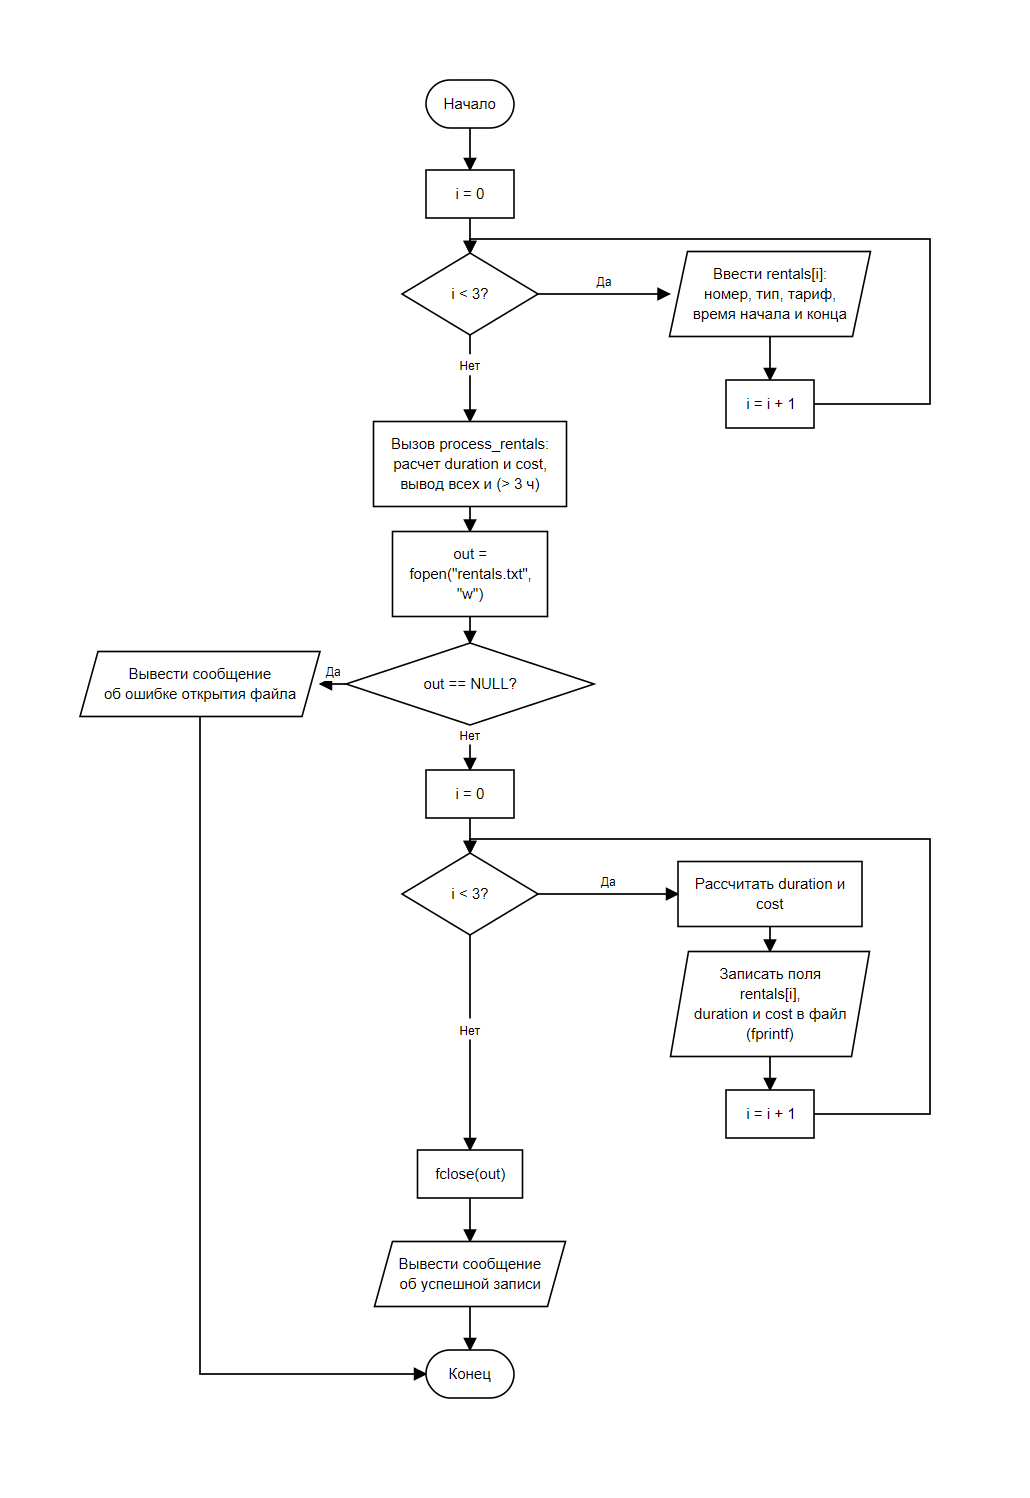
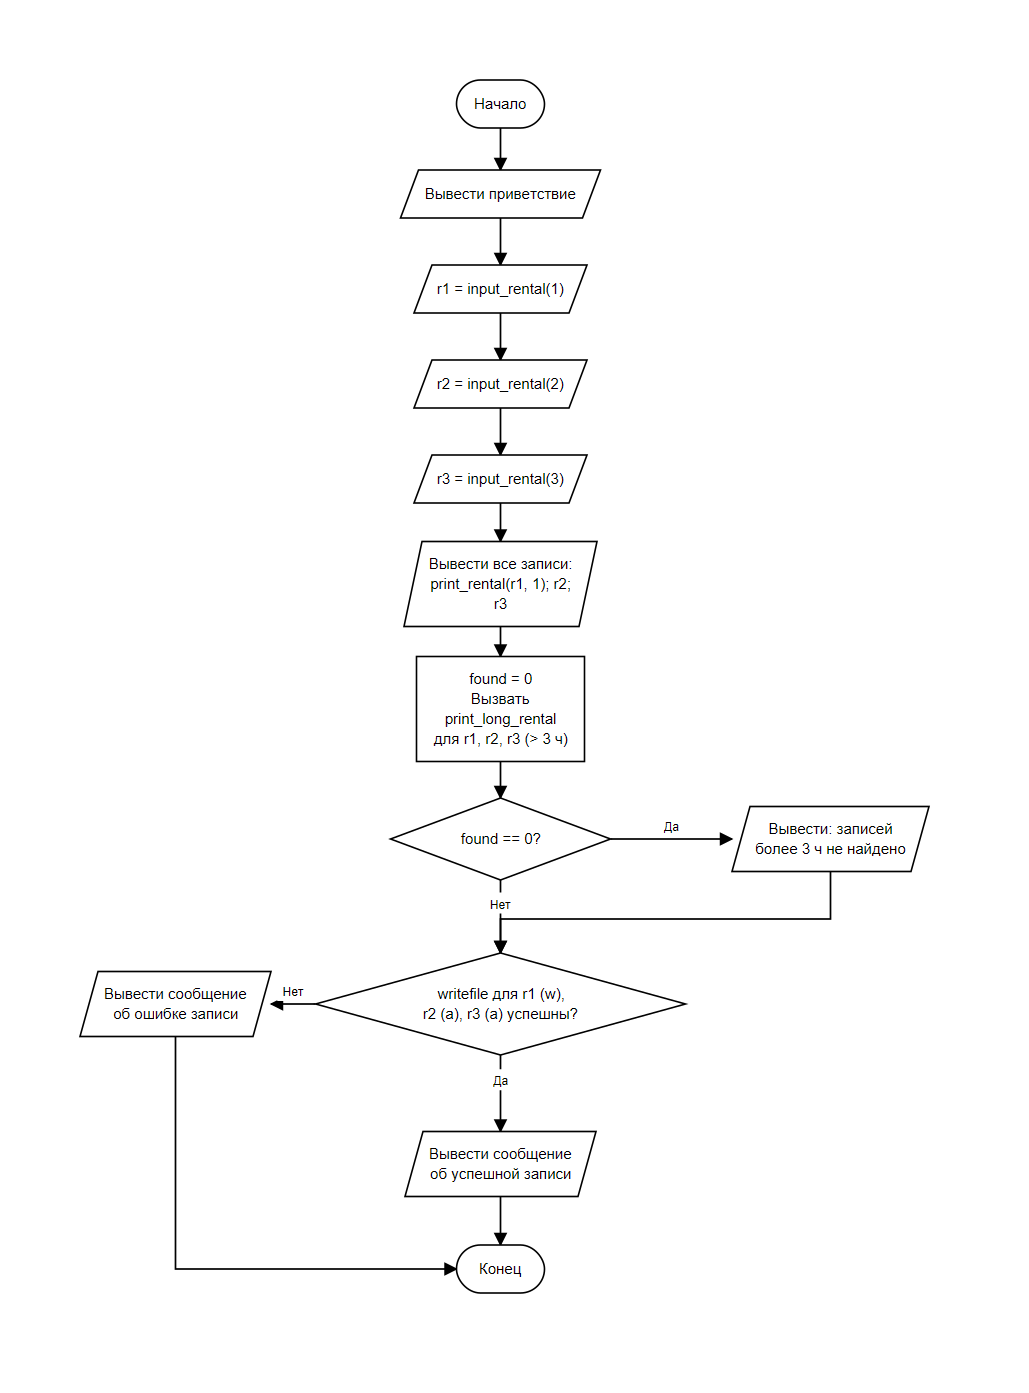
Переделана программа на три отдельные структуры

diff --git a/README.md b/README.md
@@ -12,9 +12,9 @@
 - время окончания аренды.
 
 Требования:
-1. Ввести с клавиатуры данные для трех записей проката.
-2. Вычислить продолжительность и стоимость каждой аренды (с учетом возможного перехода через полночь), вывести все записи, а также записи с длительностью более 3 часов.
-3. Реализовать функцию `writefile`, которая открывает файл `rentals.txt` для записи, проверяет успешность открытия, записывает поля каждой структуры (с разделителями-пробелами после строковых значений и переводом строки в конце каждой записи) и закрывает файл.
+1. Ввести с клавиатуры данные для трех отдельных переменных структурного типа (без использования массива структур).
+2. Вычислить продолжительность и стоимость каждой аренды (с учетом возможного перехода через полночь), вывести все записи, а также записи с длительностью более 3 часов, вызывая функции обработки для каждой из трех структур.
+3. Реализовать функцию `writefile`, которая открывает файл `rentals.txt`, проверяет успешность открытия, записывает поля переданной структуры (с разделителями-пробелами после строковых значений и переводом строки в конце записи) и закрывает файл, и вызвать ее по очереди для всех трех записей.
 
 ---
 
@@ -22,19 +22,14 @@
 
 ### Алгоритм
 
-1. Задать константы: количество записей `COUNT = 3`, порог длительности `LIMIT_HOURS = 3.0`, переводные константы времени и имя выходного файла `FILENAME = "rentals.txt"`.
+1. Задать константы: максимальную длину строки типа `TYPE_LEN = 30`, порог длительности `LIMIT_HOURS = 3.0`, переводные константы времени и имя выходного файла `FILENAME = "rentals.txt"`.
 2. Описать структуру `Time` (часы и минуты) и структуру `BikeRental` со всеми полями записи проката.
 3. Настроить локализацию (`setlocale`) для корректной работы с русским языком в консоли.
-4. В цикле от 0 до 2 считать с клавиатуры данные для 3 записей проката: номер велосипеда, тип (одно слово без пробелов), тариф, время начала и время окончания.
-5. Вызвать функцию `process_rentals`:
-   - для каждой записи рассчитать длительность проката через `calculate_duration` (при переходе через полночь прибавить 24 часа) и стоимость аренды;
-   - вывести на экран все 3 записи;
-   - отдельно вывести записи, у которых продолжительность превышает 3 часа (или сообщение, если таких записей нет).
-6. Вызвать функцию `writefile(FILENAME, rentals, COUNT)`:
-   - открыть файл `rentals.txt` в режиме записи `"w"`; если указатель `out == NULL`, вывести сообщение об ошибке и вернуть `0`;
-   - в цикле по всем записям рассчитать `duration` и `cost` и записать в файл строку с полями структуры через `fprintf` (после `%s` ставится пробел перед разделителем `;`, строка завершается `\n`);
-   - закрыть файл функцией `fclose` и вернуть `1` при успешном закрытии.
-7. По результату `writefile` вывести сообщение об успешном сохранении данных в файл или об ошибке и завершить программу.
+4. Объявить три отдельные структурные переменные `r1`, `r2`, `r3` и для каждой вызвать функцию `input_rental(1)`, `input_rental(2)`, `input_rental(3)` для ввода с клавиатуры номера велосипеда, типа (одно слово без пробелов), тарифа, времени начала и окончания аренды.
+5. Вызвать функцию `print_rental` три раза (для `r1`, `r2` и `r3`), чтобы вычислить длительность через `calculate_duration` (при переходе через полночь прибавляются 24 часа), стоимость аренды и вывести данные на экран.
+6. Инициализировать счетчик `found = 0` и три раза вызвать функцию `print_long_rental` для `r1`, `r2` и `r3`: если длительность аренды больше 3 часов, запись выводится на экран и возвращается `1`. Если `found == 0`, вывести сообщение, что таких записей нет.
+7. Вызвать функцию `writefile` три раза: для `r1` в режиме `"w"` (создание нового файла), для `r2` и `r3` в режиме `"a"` (дозапись в конец файла). Внутри `writefile` открывается `rentals.txt`, проверяется `out == NULL`, вычисляются `duration` и `cost`, строка записывается через `fprintf` и файл закрывается через `fclose`.
+8. По результату трех вызовов `writefile` вывести сообщение об успешном сохранении данных или об ошибке и завершить программу.
 
 ### Блок-схема
 
